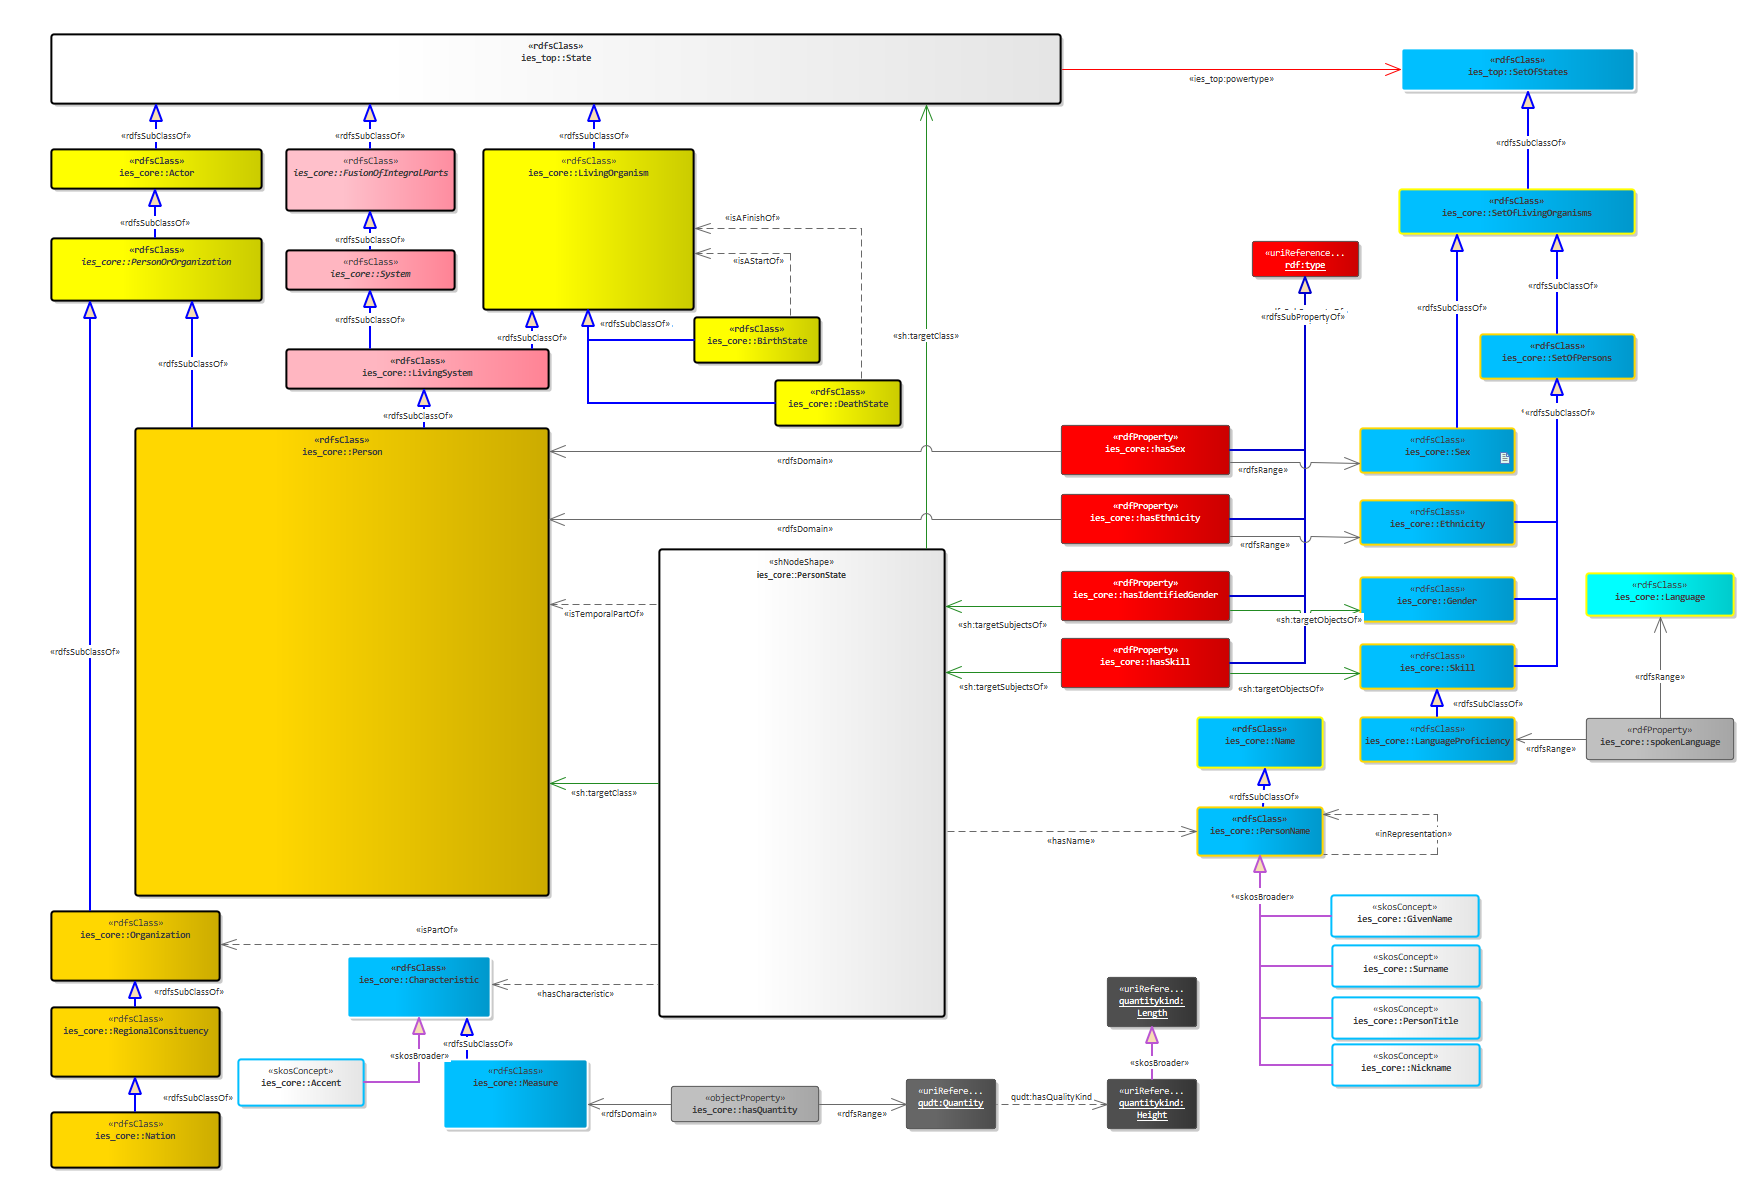
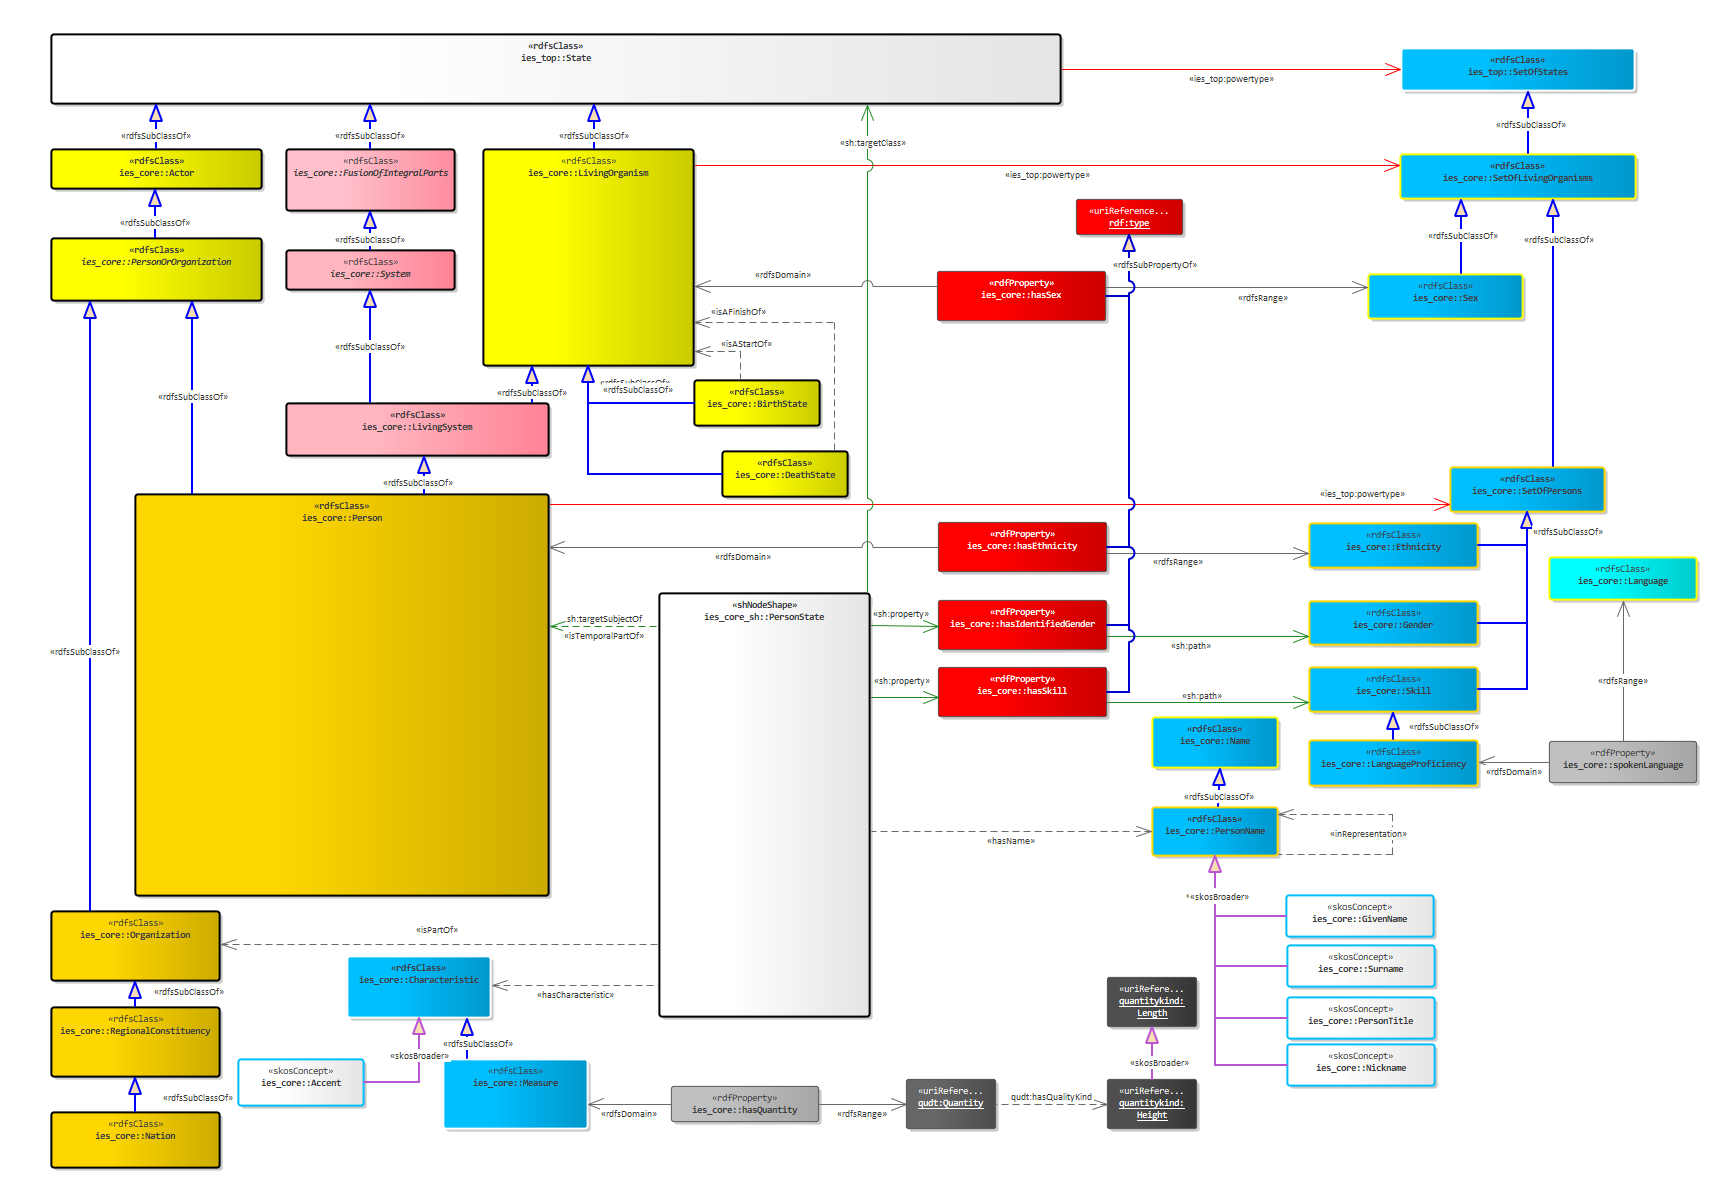
fix: subPropertyOf for doc relations, Sex definition and redundant sub-class: ies_core:Gender

diff --git a/docs/ies-core.md b/docs/ies-core.md
@@ -224,11 +224,9 @@ In IES-Core, we instantiate this enduring, replaceable lifespan as both a <i>Rep
 
 ### IES elements in this diagram:
 
-* [SpatiotemporalExtent](#dcb3f671-0fa3-4de6-b037-a011c432a087)
+* [Thing](#27c6bcf1-9ffe-4172-ac2c-e32653b43014)
 * [category](#fb9df2ee-cbeb-4bf5-abd4-34405dc3bc52)
 * [Vehicle](#2a33309a-f899-469f-8133-db01cfdb5e68)
-* [Bus](#6a365d36-53bb-41aa-ac1f-548dd95fa9b9)
-* [DoubleDeckerBus](#79a3ad5a-c0f0-4c7c-9779-874527861ffd)
 * [RoadVehicle](#fe0b01e3-c6cf-4dd8-9763-6fd4af05ed9c)
 
 As with the previous version of IES, IES-Core allows the model to be extended to incorporate new concepts. IES4 allowed the extension of the ontology using RDF Schema which saw users add new classes or properties using subtypes of those found in IES4. The drawback of this approach was that data consumers needed to know the specification of each custom extension or, the data producer was obliged to instantiate instances as both a class/property in IES4 and a class in their extension.
@@ -429,6 +427,9 @@ Finally,<b><i> </i></b><i>Representations</i> themselves can be organized into l
 * [BirthState](#63855454-6ab8-44fb-b61e-83d442b44fd0)
 * [DeathState](#31b164c8-443c-4457-a4d3-eabed321fd93)
 * [LivingOrganism](#a2c20353-f683-4d31-a7dd-455813527f4b)
+* [SetOfLivingOrganisms](#d2e0d19c-d606-4a06-8170-c680ec9734ce)
+* [Sex](#310edd2b-0086-4fc7-ba59-46ac001b0ebf)
+* [hasSex](#d2c21f1c-52d8-401f-aa8f-369231968235)
 
 A <i>LivingOrganism</i> is a state made up of cells, which uses genes and chemistry to sustain itself, requires energy, and evolves over time. The spatiotemporal extent of an instance of a living organism is bound from its <i>BirthState</i> to its <i>DeathState</i>. These states can be used to indicate the location and time of birth and death of a <i>LivingOrganism </i>respectively.
 
@@ -1204,7 +1205,7 @@ An integer count of members of a FiniteClassOfElement.
 
 
 ### <a id="8df90785-8066-4e37-a8ff-64d4232cf266"></a>FiniteSetOfSpatiotemporalExtents
-A ClassOfElement whose instances are classes with finite, fixed  membership of Elements.
+A SetOfSpatiotemporalExtents whose instances are sets with finite, fixed membership of spatio-temporal extents.
 
 
 ### <a id="97d37b17-3e40-457b-94d8-2528697b3064"></a>FirstLineOfAddress
@@ -1666,32 +1667,34 @@ An Identifier for HumanMadeSystem that has been assigned at manufacture. Example
 
 
 ### <a id="fec11cc7-b62f-42fc-806b-c45c2d026021"></a>SetOfCharacterStrings
-The powertype of InformationprocessingSystems
+An instance of this is a set that contains character-strings.
+
 
 ### <a id="a2c3a0dc-2f0d-46ec-9e7e-b7ad443397fc"></a>SetOfIndividualDocuments
-The powertype of IndividualDocument.
+An instance of this is a set that contains individual documents.
 
 
 ### <a id="322b471c-b825-4862-b974-29a18c211f43"></a>SetOfInformationProcessingSystems
 The powertype of InformationProcessingSystem whose instances are sets of InformationProcessingSystems.
 
 ### <a id="d2e0d19c-d606-4a06-8170-c680ec9734ce"></a>SetOfLivingOrganisms
-
+An instance of this is a set that contains living organisms.
 
 ### <a id="49585484-74e3-4ce1-98e3-12cc89379a35"></a>SetOfNames
-
+The powertype of Name. An instance of this is a set of Names. Note that Name itself is a set of character strings.
 
 ### <a id="a368032e-957e-46de-adba-535d9062b8e2"></a>SetOfPersons
-
+An instance of this is a set that contains persons.
 
 ### <a id="7814f7f3-b1f9-4bee-a35d-82eff80d1f3c"></a>SetOfRepresentations
-The <a href="#D4BD48E8-76B8-4d3c-AB83-E653DB89170D"><font color="#0000ff"><u>powertype</u></font></a> of <a href="#675A5C23-0746-43d0-96D0-AF0DF72CD697"><font color="#0000ff"><u>Representation</u></font></a>
+The powertype of Representation. An instance of this is a set of Representations. Note that Representation itself is a set of signs.
+
 
 ### <a id="bb9fd5e2-98d1-4690-b8c8-08796fdae208"></a>SetOfSetOfSigns
-
+An instance of this is a set that contains sets of signs.
 
 ### <a id="4e054f55-b874-4f4d-b5f3-30963d987a3e"></a>SetOfSigns
-
+An instance of this is a set that contains signs.
 
 ### <a id="0dea64c8-e003-488f-b9e6-a8178fc65be7"></a>SetOfStatesWithParticularDuration
 A SetOfStates where all members are states with the same temporal duration e.g. all states that are 2 hours and 30 minutes long in duration.
@@ -1724,7 +1727,7 @@ Everything that began and ended in the year 1900 - this would include all activi
 
 
 ### <a id="310edd2b-0086-4fc7-ba59-46ac001b0ebf"></a>Sex
-A ClassOfPerson whose members all share the same sex
+An instance of this is a set of living organisms which share the same sex.
 
 
 ### <a id="0600cef2-32e9-4cbd-899a-1319379aebab"></a>Sign
